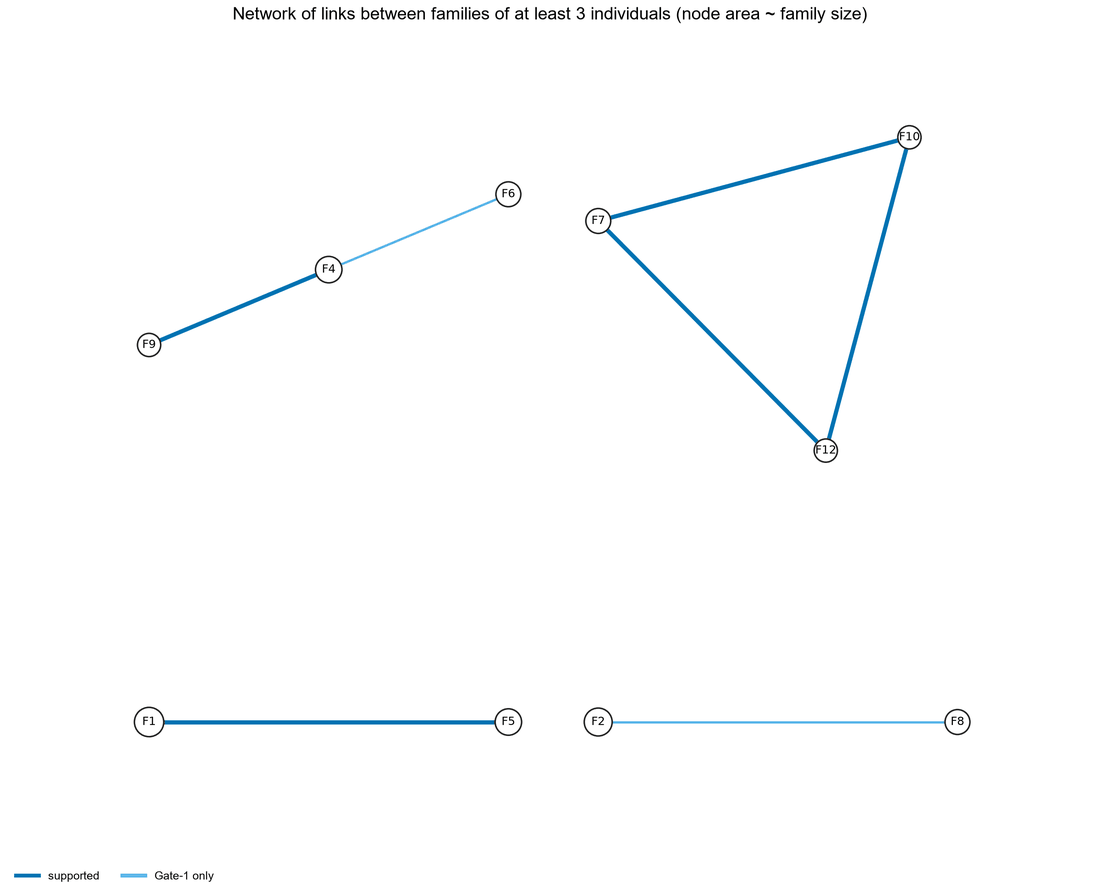
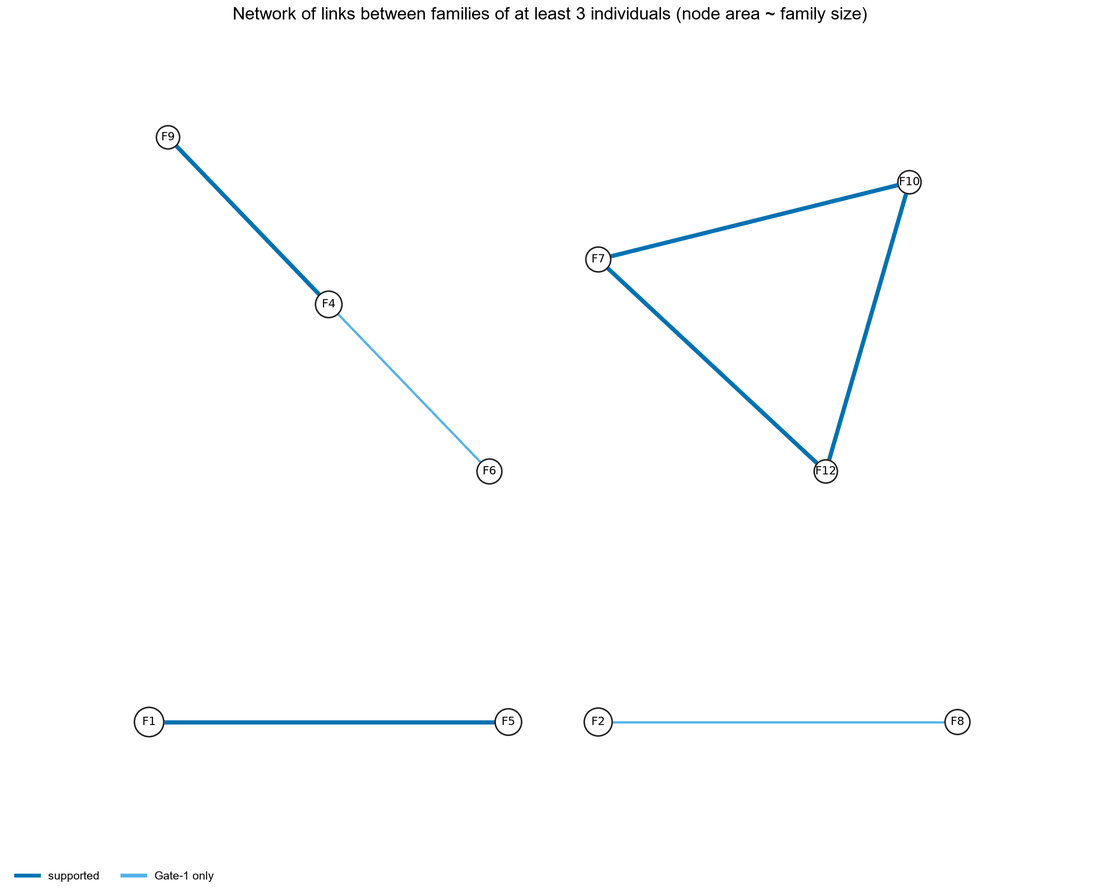
Regenerate expected outputs and gallery after the GRM call-rate fix (38 tests pass)

diff --git a/example/expected/run_report.md b/example/expected/run_report.md
@@ -1,6 +1,6 @@
 # BroodLink run report
 
-BroodLink 0.1.0, 2026-11-13, config hash f360934f27, seed 1.
+BroodLink 0.1.0, 2026-11-13, config hash afaa86ec32, seed 1.
 
 **Analysis set: 80 individuals** (0 removed by QC, 3 flagged and kept). Families are relatedness-based groups, not pedigree records. callable span: 47,620,925 bp (79.37% of the 60,000,000-bp assembly).
 
@@ -87,20 +87,20 @@ Definitions of every number: `statistics.tsv`.
 
 ## Run time
 
-- read inputs: 1.0 s
-- 00_qc: 0.5 s
+- read inputs: 1.3 s
+- 00_qc: 0.8 s
 - 01_relatedness: 0.3 s
-- 02_families: 0.3 s
-- 03_nomination: 2.0 s
-- 04_audit: 0.9 s
+- 02_families: 0.2 s
+- 03_nomination: 1.6 s
+- 04_audit: 0.4 s
 - 05_network: 0.2 s
-- haplotypes: SNP scan: 4.4 s
-- haplotypes: deletion scan: 0.1 s
-- 06_structural_haplotypes: 28.1 s
+- haplotypes: SNP scan: 3.2 s
+- haplotypes: deletion scan: 0.2 s
+- 06_structural_haplotypes: 20.6 s
 - 07_barcode: 0.2 s
-- 08_family_effect: 13.3 s
-- 09_cross_marker_concordance: 0.6 s
-- total: 47.9 s
+- 08_family_effect: 24.0 s
+- 09_cross_marker_concordance: 0.8 s
+- total: 50.6 s
 
 ## Figures
 
